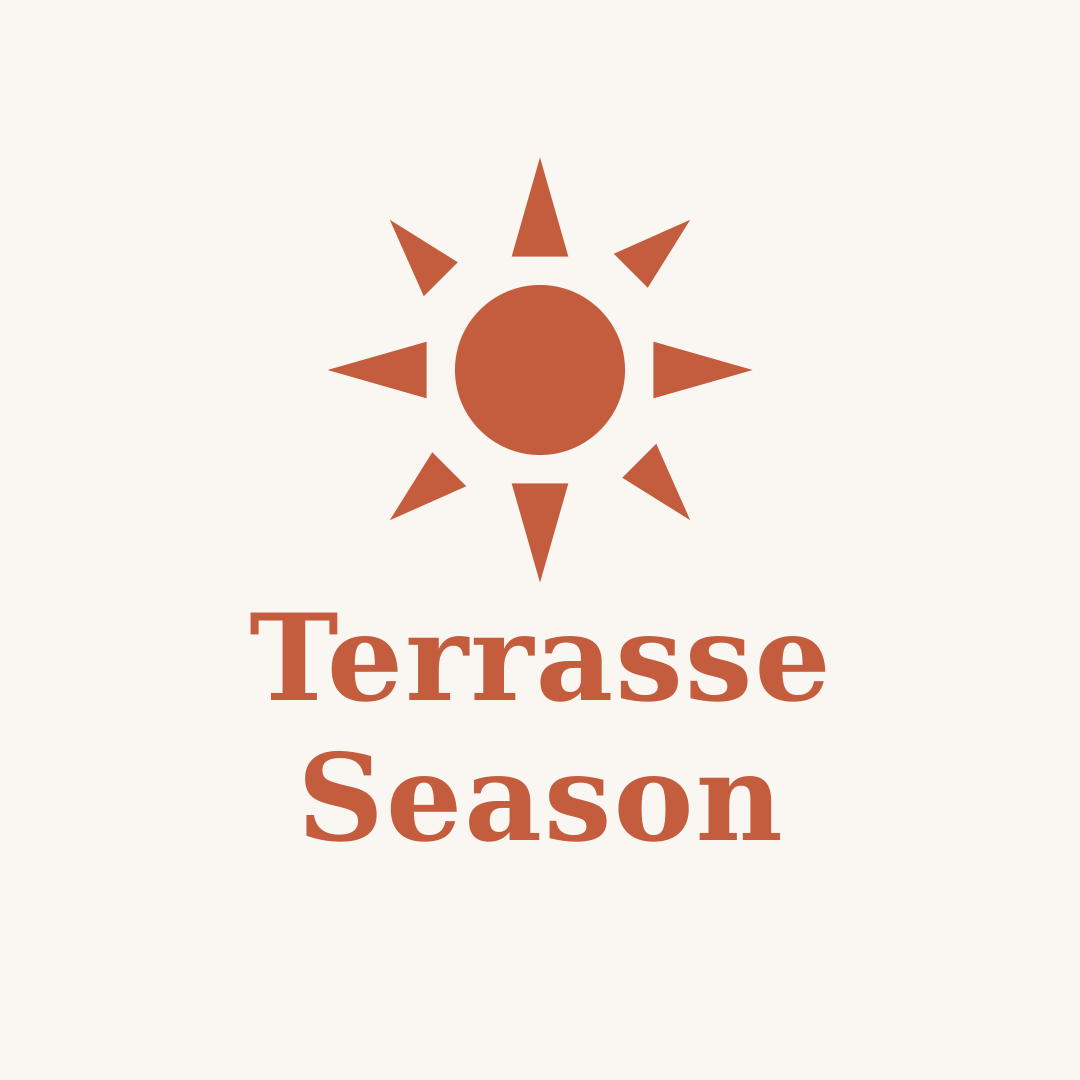
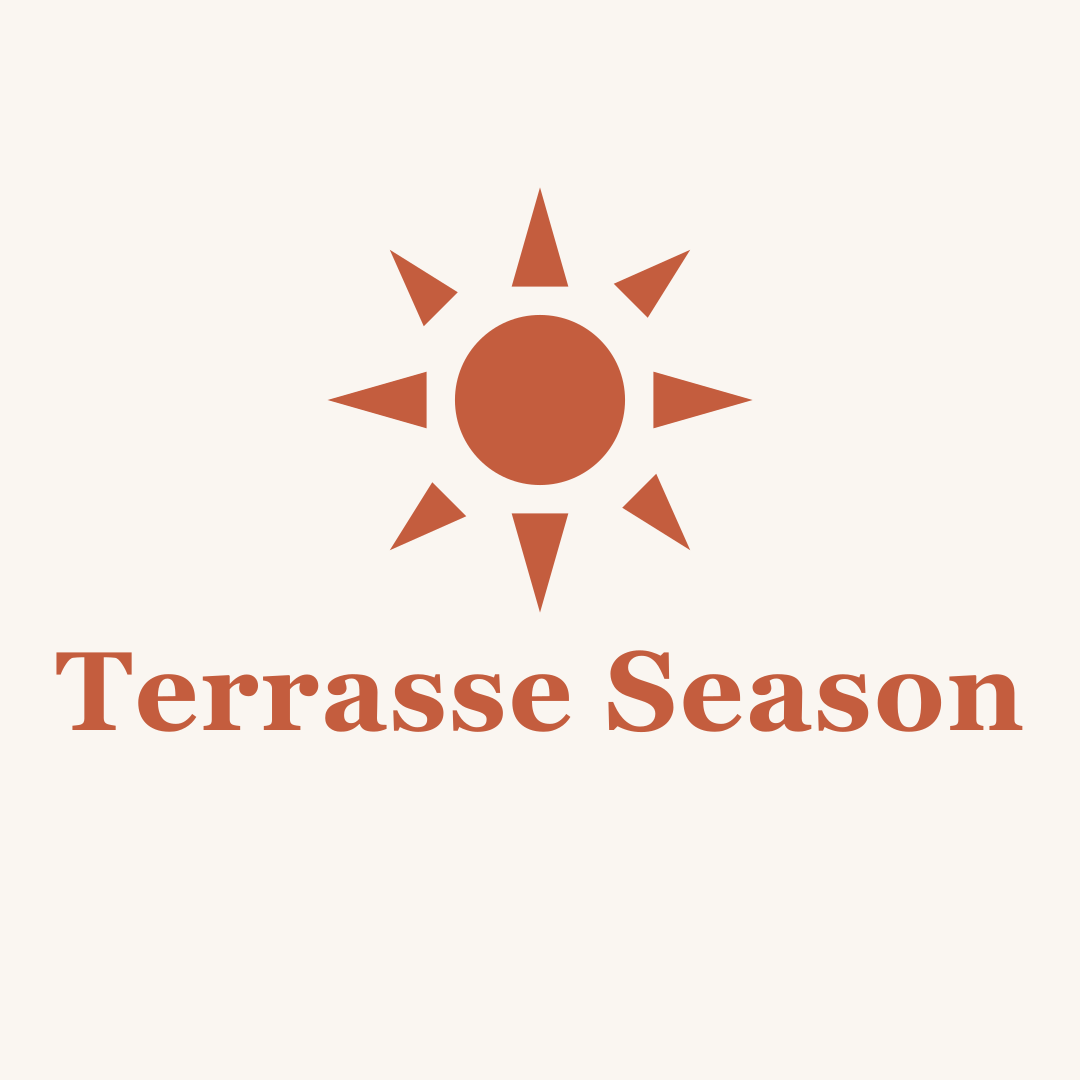
Add two-line Instagram profile pic variants; restore originals
New files:
- public/icon-instagram-2lines.png
- public/icon-instagram-2lines-inverted.png

Originals (icon-instagram.png, icon-instagram-inverted.png) restored
to match master so merging this branch only adds the new files.

https://claude.ai/code/session_01QF8FJuXMCXb8xvZ3hxR1if

Changed region(s): [[0.0306, 0.1528, 0.9472, 0.7944], [0.3667, 0.4278, 0.4278, 0.5194]]

diff --git a/scripts/generate-icons.js b/scripts/generate-icons.js
@@ -50,6 +50,42 @@ function makeSunSvg(size, sunFill = 0.75) {
 function makeInstagramSvg(bg, fg) {
   const s = 1080;
   const cx = s / 2;
+  const sunCy = 400;
+  const sunScale = (s * 0.42) / 32;
+
+  const tx = (x) => cx + (x - 16) * sunScale;
+  const ty = (y) => sunCy + (y - 16) * sunScale;
+  const tp = (pts) => pts.map(([x, y]) => `${tx(x)},${ty(y)}`).join(' ');
+
+  return `<svg xmlns="http://www.w3.org/2000/svg" width="${s}" height="${s}">
+  <defs>
+    <style>${playfairFontFace}</style>
+  </defs>
+  <rect width="${s}" height="${s}" fill="${bg}"/>
+  <polygon points="${tp([[16,1],[14,8],[18,8]])}" fill="${fg}"/>
+  <polygon points="${tp([[16,31],[14,24],[18,24]])}" fill="${fg}"/>
+  <polygon points="${tp([[1,16],[8,14],[8,18]])}" fill="${fg}"/>
+  <polygon points="${tp([[31,16],[24,14],[24,18]])}" fill="${fg}"/>
+  <polygon points="${tp([[5.4,5.4],[10.2,8.4],[7.8,10.8]])}" fill="${fg}"/>
+  <polygon points="${tp([[26.6,26.6],[21.8,23.6],[24.2,21.2]])}" fill="${fg}"/>
+  <polygon points="${tp([[26.6,5.4],[23.6,10.2],[21.2,7.8]])}" fill="${fg}"/>
+  <polygon points="${tp([[5.4,26.6],[8.4,21.8],[10.8,24.2]])}" fill="${fg}"/>
+  <circle cx="${cx}" cy="${sunCy}" r="${6 * sunScale}" fill="${fg}"/>
+  <text
+    x="${cx}" y="730"
+    text-anchor="middle"
+    font-family="Playfair Display, Georgia, serif"
+    font-size="112"
+    font-weight="700"
+    fill="${fg}"
+    letter-spacing="2"
+  >Terrasse Season</text>
+</svg>`;
+}
+
+function makeInstagramSvgTwoLines(bg, fg) {
+  const s = 1080;
+  const cx = s / 2;
   const sunCy = 370;
   const sunScale = (s * 0.42) / 32;
 
@@ -120,6 +156,18 @@ async function generate() {
     .png()
     .toFile(join(__dirname, '../public/icon-instagram-inverted.png'));
   console.log('Generated icon-instagram-inverted.png (1080x1080)');
+
+  const igTwoLinesSvg = makeInstagramSvgTwoLines('#c45d3e', '#faf6f1');
+  await sharp(Buffer.from(igTwoLinesSvg))
+    .png()
+    .toFile(join(__dirname, '../public/icon-instagram-2lines.png'));
+  console.log('Generated icon-instagram-2lines.png (1080x1080)');
+
+  const igTwoLinesInvertedSvg = makeInstagramSvgTwoLines('#faf6f1', '#c45d3e');
+  await sharp(Buffer.from(igTwoLinesInvertedSvg))
+    .png()
+    .toFile(join(__dirname, '../public/icon-instagram-2lines-inverted.png'));
+  console.log('Generated icon-instagram-2lines-inverted.png (1080x1080)');
 }
 
 generate().catch(console.error);
